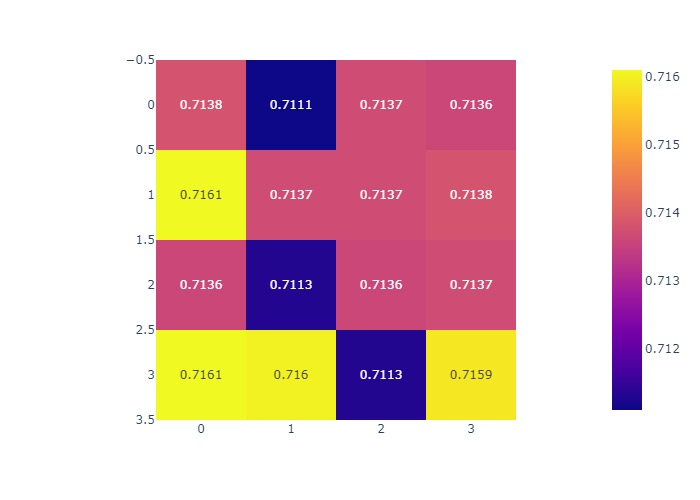
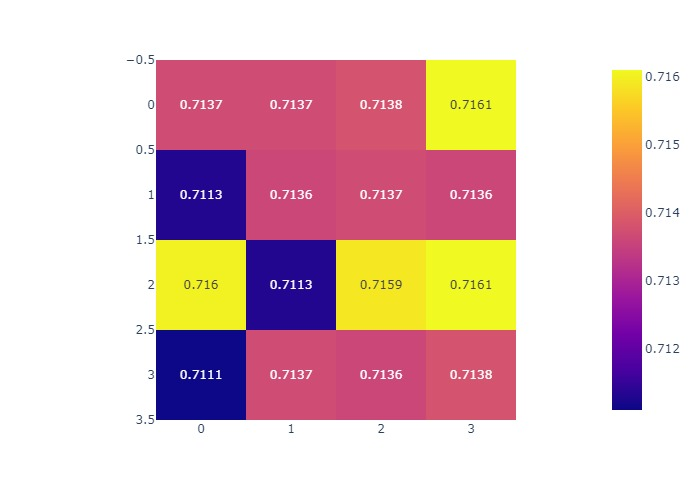
some changes

Changed region(s): [[0.21, 0.12, 0.75, 0.84], [0.6, 0.12, 0.75, 0.3], [0.69, 0.36, 0.72, 0.39]]

diff --git a/mainScript.py b/mainScript.py
@@ -26,7 +26,9 @@ def main():
 		with open(f'data/{sys.argv[1]}', newline='') as csvfile:
 			spamreader = csv.reader(csvfile, delimiter=',', quotechar='|')
 			for row in spamreader:
-				if row != "X,Y,PH,TDS,TURBIDITY".split(','):
+				if list("X,Y,PH,TDS,TURBIDITY".split(',')) == row[:5]:
+					intialRow = row
+				else:
 					lst.append(list(map(float, row)))
 
 
@@ -38,6 +40,7 @@ def main():
 
 		for j in [numpy.asarray(i.values) for i in newLst]:
 			trainAgain(j[0], j[1], j[2])
+
 
 		x = [i.loc[0] for i in newLst]
 		y = [i.loc[1] for i in newLst]
@@ -51,10 +54,10 @@ def main():
 		  loc = (data.loc)/5
 		  grid[int(loc[0])][int(loc[1])] = data
 
-			#predictedGrid = [[round(model.query(i.values)[0-this is where you can change stuff to decide which probabilities to show on the graph]
-		predictedGrid_1 = [[round(model_1.query(i.values)[0][0], 4) for i in j] for j in grid]
-
-		predictedGrid_2 = [[model_2.predict(numpy.asarray(i.values).reshape(1, -1)).tolist()[0] for i in j] for j in grid]
+		#predictedGrid_ = [[round(model.query(i.values)[0-this is where you can change stuff to decide which probabilities to show on the graph]
+		predictedGrid_1 = [[round(model_1.query(i.values)[0][0], 4) for i in j if i != None] for j in grid]
+		
+		predictedGrid_2 = [[model_2.predict(numpy.asarray(i.values).reshape(1, -1)).tolist()[0] for i in j if i != None] for j in grid]
 
 		fig = px.imshow(predictedGrid_1, text_auto=True)
 		fig.write_image(f"graphs/{sys.argv[1][:-4]}_model_1.jpeg")
